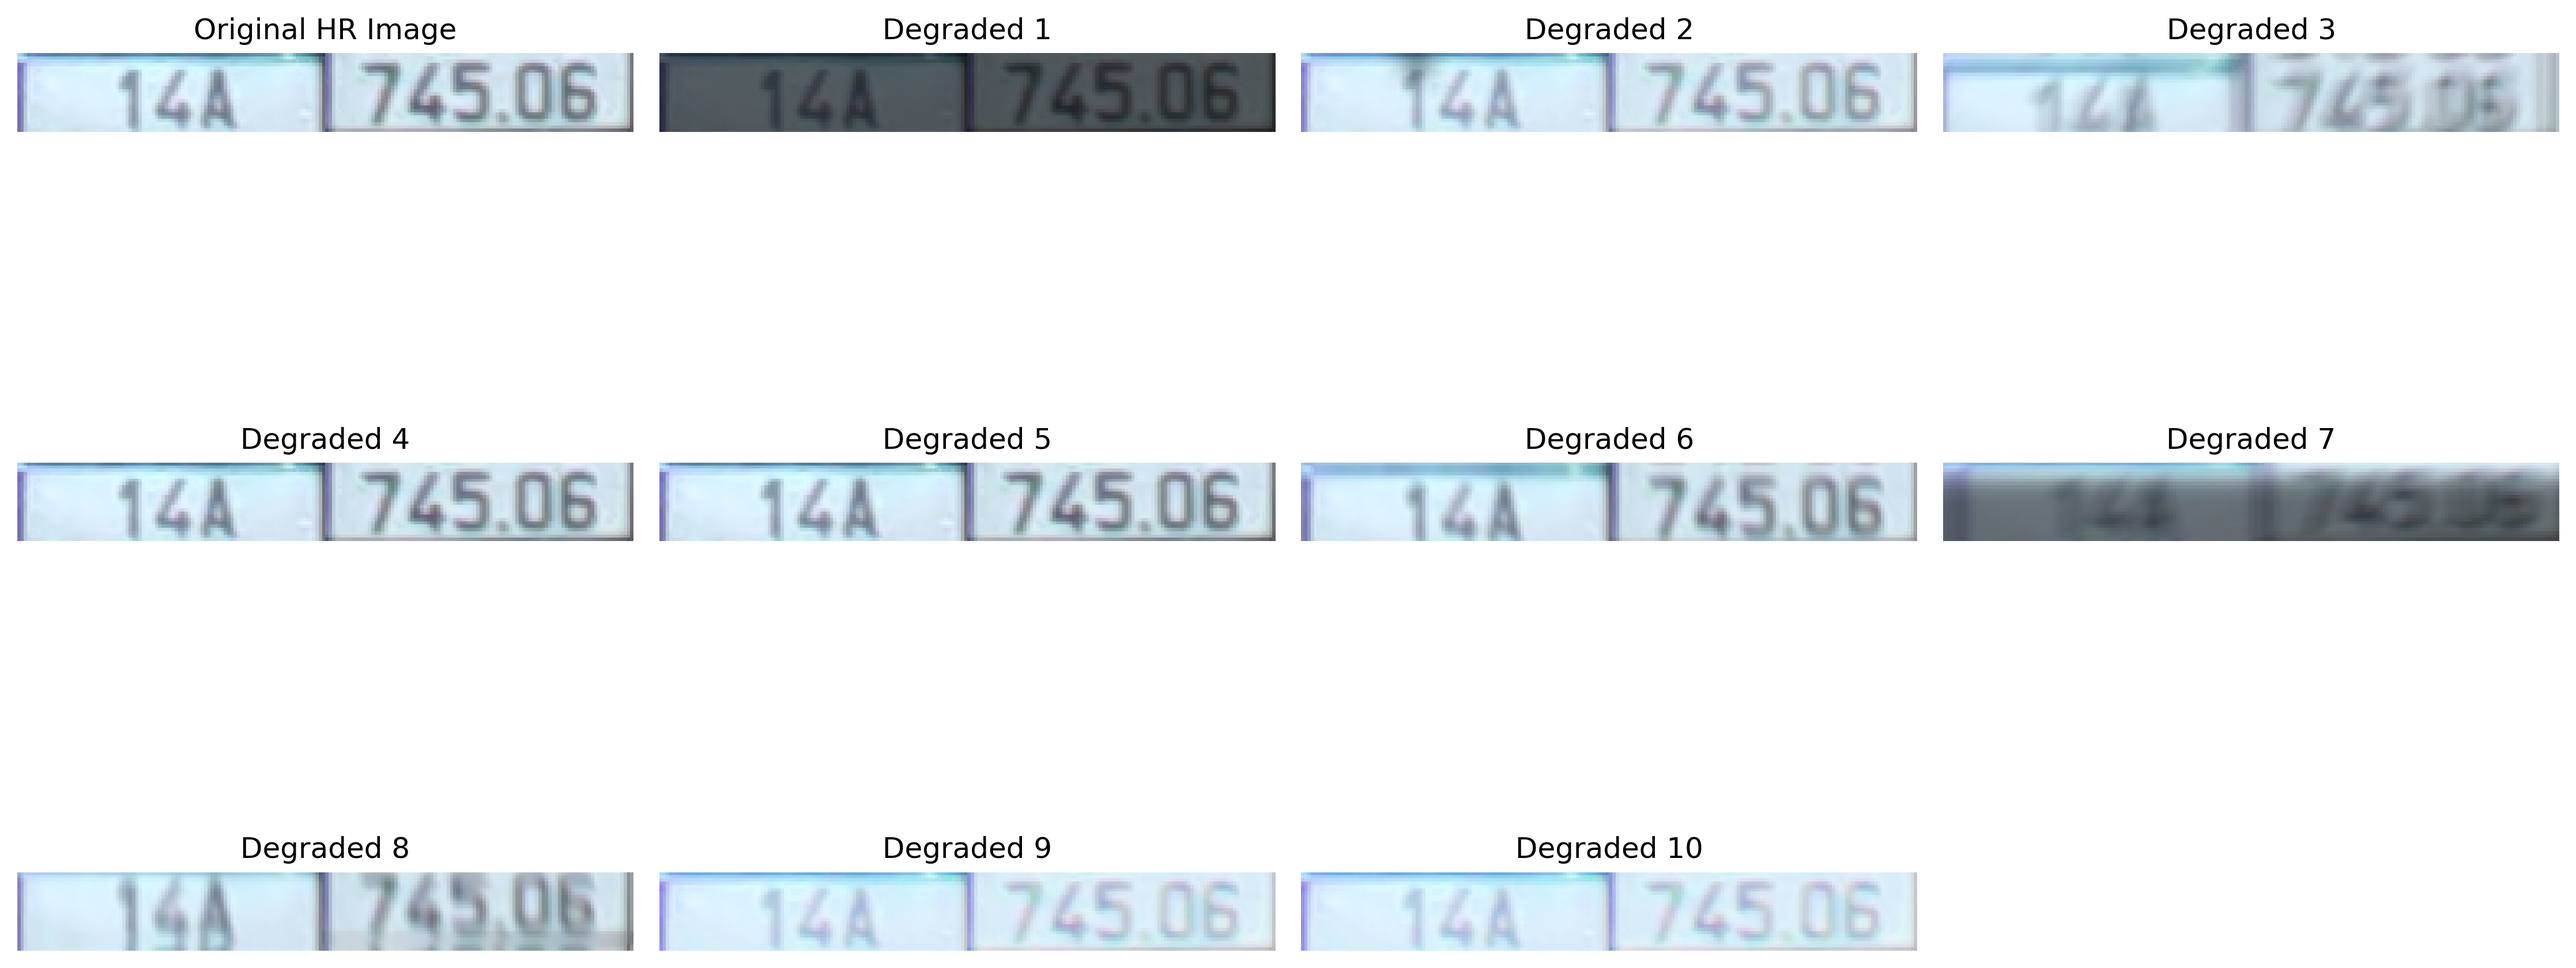
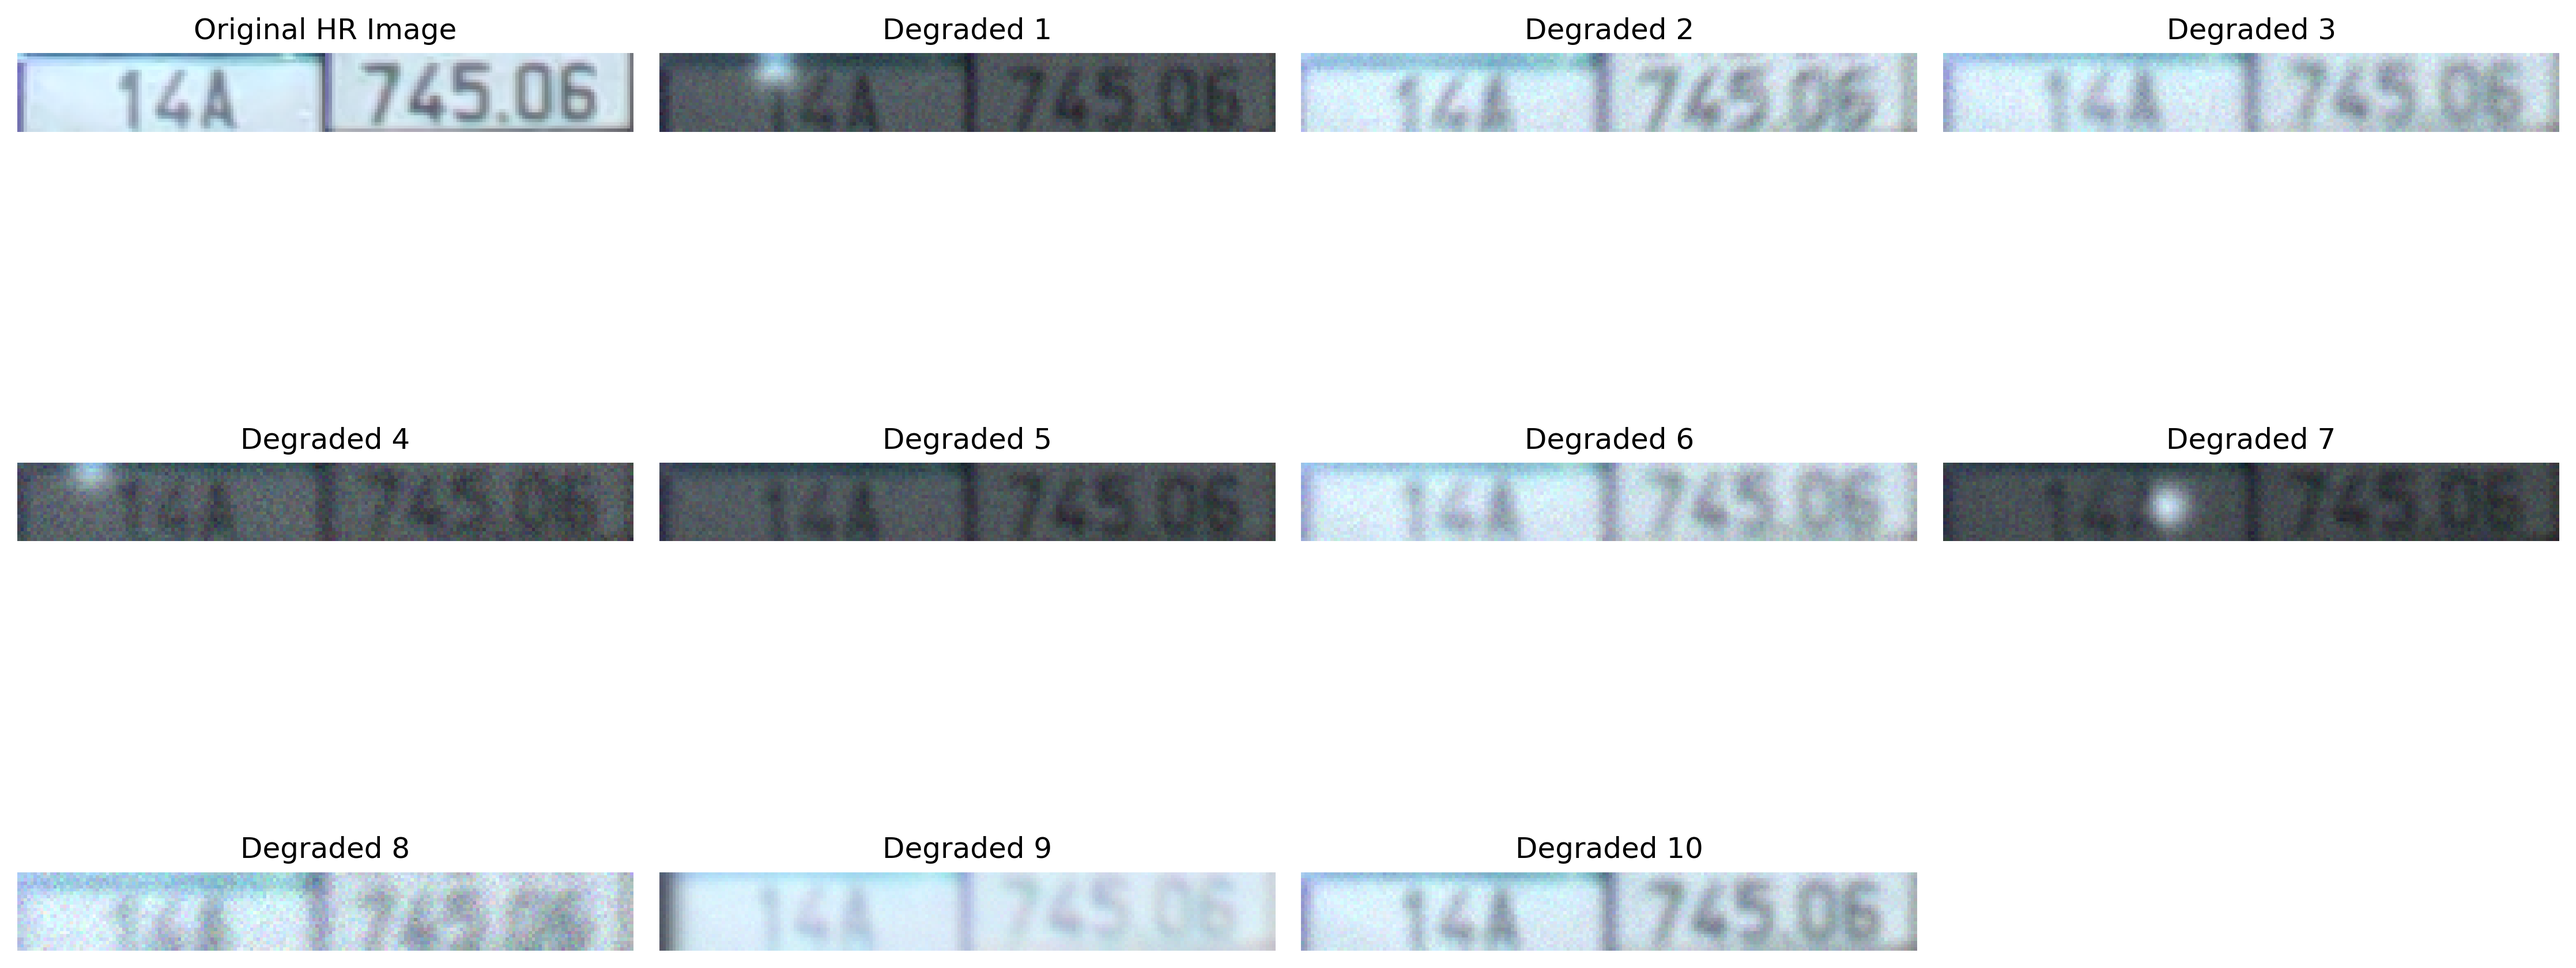
modifyDegradationModel

diff --git a/models/degradation.py b/models/degradation.py
@@ -37,12 +37,12 @@ class LPDegradationModel:
             img = self.apply_motion_blur(img)
         
         # Apply general degradations (Gaussian blur, noise)
-        # sigma = random.uniform(*self.gaussian_sigma_range)
-        # img = cv2.GaussianBlur(img, (0, 0), sigma)
+        sigma = random.uniform(*self.gaussian_sigma_range)
+        img = cv2.GaussianBlur(img, (0, 0), sigma)
         
-        # # Apply noise
-        # noise_level = random.uniform(*self.noise_level_range)
-        # img = self.apply_noise(img, noise_level)
+        # Apply noise
+        noise_level = random.uniform(*self.noise_level_range)
+        img = self.apply_noise(img, noise_level)
         
         return img
     
